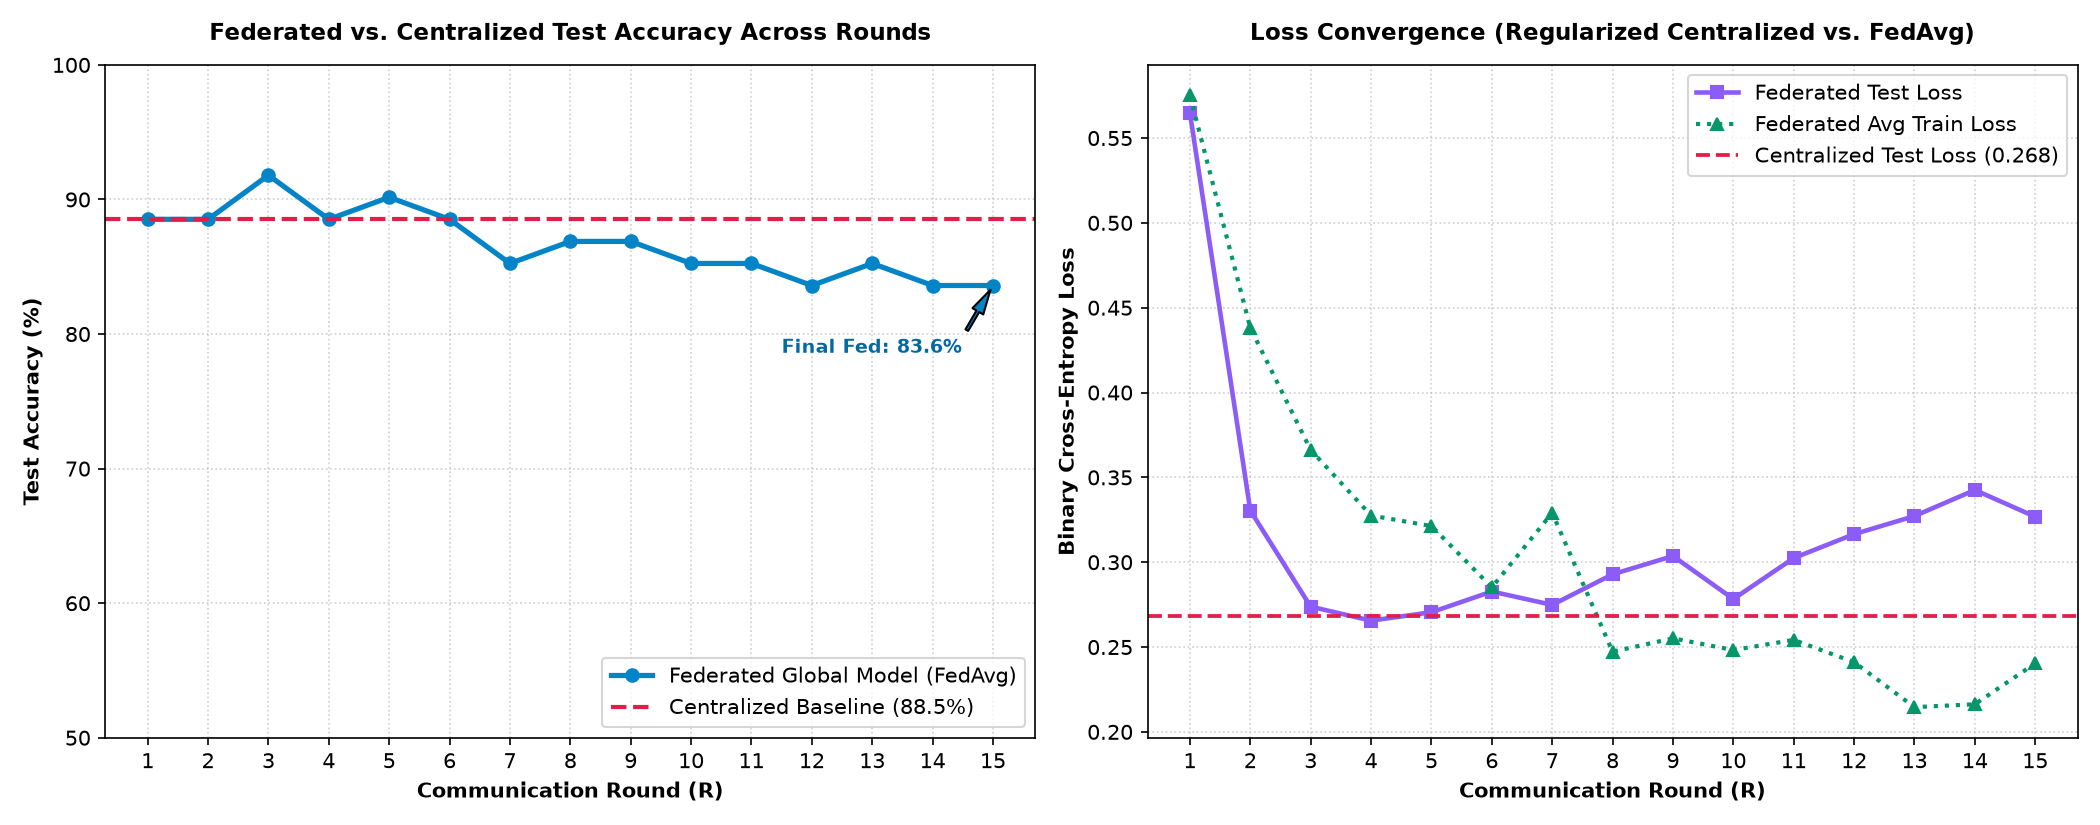
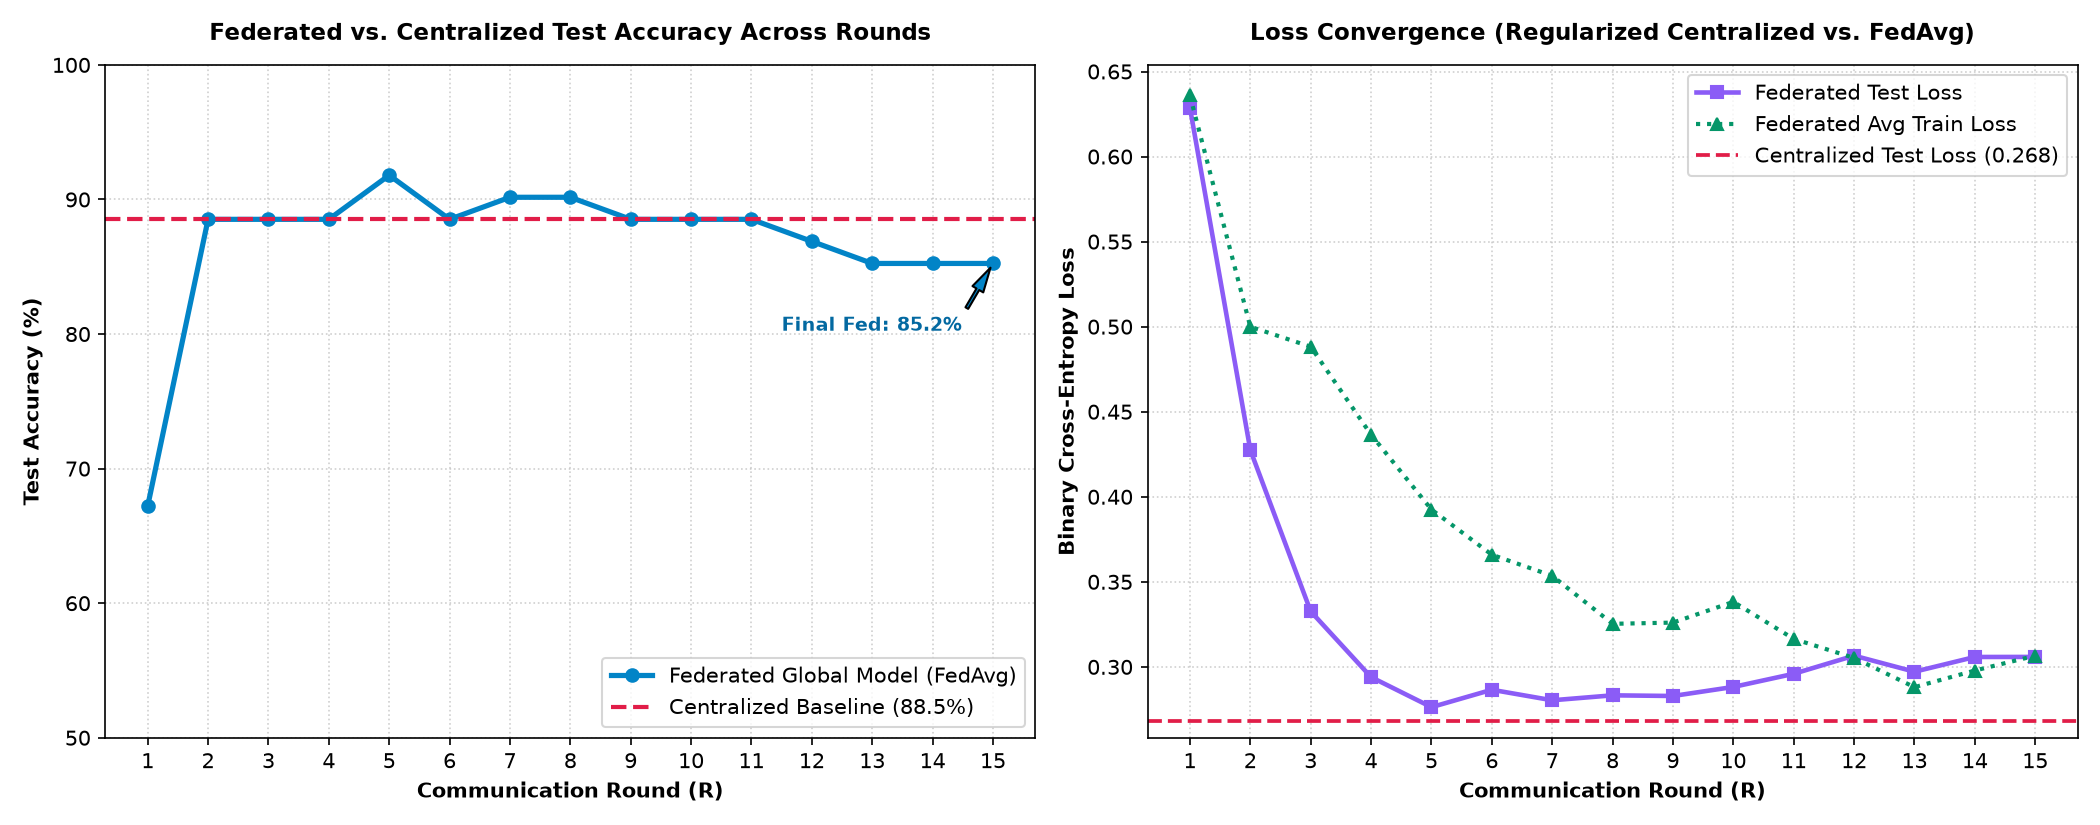
feat(fl): add Differential Privacy DP-SGD with L2 gradient clipping and noise injection

diff --git a/fl-pipeline/models/fed_avg.py b/fl-pipeline/models/fed_avg.py
@@ -32,9 +32,22 @@ from sklearn.metrics import (
 )
 from .model import HeartDiseaseNN
 
-def train_local_client(model, X_client, y_client, epochs=5, lr=0.008, batch_size=16):
+def train_local_client(
+    model,
+    X_client,
+    y_client,
+    epochs=5,
+    lr=0.008,
+    batch_size=16,
+    enable_dp=True,
+    clip_norm=1.0,
+    noise_multiplier=0.01,
+):
     """
     Simulates on-premise local model training inside a single hospital node.
+    Includes Differential Privacy (DP-SGD):
+    - L2 Gradient Norm Clipping: bounds individual clinical record sensitivity to `clip_norm`.
+    - Calibrated Gaussian Noise Injection: adds N(0, (noise_multiplier * clip_norm)^2) to gradients.
     """
     model.train()
     criterion = nn.BCELoss()
@@ -54,6 +67,18 @@ def train_local_client(model, X_client, y_client, epochs=5, lr=0.008, batch_size
             preds = model(batch_x)
             loss = criterion(preds, batch_y)
             loss.backward()
+
+            # Differential Privacy: L2 Gradient Clipping
+            if enable_dp and clip_norm > 0:
+                torch.nn.utils.clip_grad_norm_(model.parameters(), max_norm=clip_norm)
+
+            # Differential Privacy: Gaussian Noise Mechanism
+            if enable_dp and noise_multiplier > 0:
+                for param in model.parameters():
+                    if param.grad is not None:
+                        noise = torch.randn_like(param.grad) * (noise_multiplier * clip_norm)
+                        param.grad.add_(noise)
+
             optimizer.step()
             running_loss += loss.item() * batch_x.size(0)
         epoch_loss = running_loss / len(dataset)
